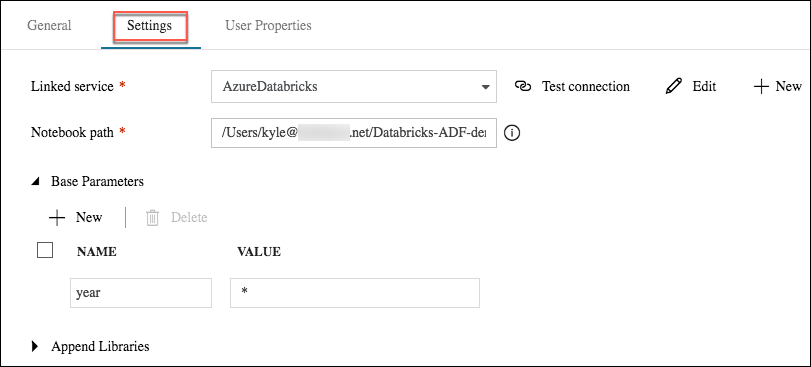
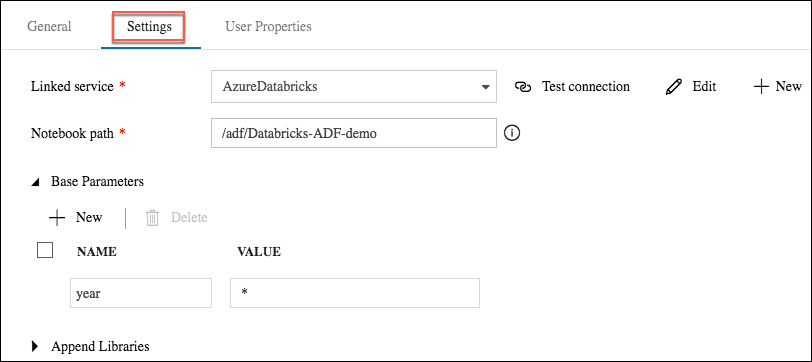
Updated ADF pipeline to reference a shared folder at the workspace level

diff --git a/automation-orchestration/azure-data-factory.md b/automation-orchestration/azure-data-factory.md
@@ -33,7 +33,7 @@ Below is a sample JSON definition of a Databricks Notebook activity:
             "type": "LinkedServiceReference"
         },
         "typeProperties": {
-            "notebookPath": "/Users/user@example.com/Databricks-ADF-demo",
+            "notebookPath": "/adf/Databricks-ADF-demo",
             "baseParameters": {
                 "inputpath": "input/folder1/",
                 "outputpath": "output/"
@@ -114,13 +114,21 @@ print (x)
 
 ## Create a new notebook
 
-The first thing you need to do is create the notebook that will be executed by your ADF Databricks Notebook activity.
+The first thing you need to do is create the notebook that will be executed by your ADF Databricks Notebook activity. To follow best practices for a shared notebook, you will create a folder at the workspace level, named `adf`, and create the notebook within that.
 
-1. In the [Azure portal](https://portal.azure.com), navigate to your Databricks workspace, and on the Azure Databricks page, select **Notebook** under **New**.
+1. In the [Azure portal](https://portal.azure.com), navigate to your Databricks workspace, select **Workspace** from the left-hand menu, then select the Workspace menu down arrow, followed by **Create**, and then select **Folder**.
 
-    ![On the Azure Databricks workspace page, Notebook is highlighted under New.](media/azure-databricks-new-notebook.png "Azure Databricks Workspace")
+    ![The Azure Databricks workspace menu is expanded and Create > Folder is highlighted in the menu.](media/azure-databricks-workspace-create-folder.png "Azure Databricks workspace create folder")
 
-2. Enter a Name, such as Databricks-ADF-demo, on the **Create Notebook** dialog, ensure the language is set to **Python**, select your cluster from the drop down, and then select **Create**.
+2. In the **New Folder Name** dialog, enter **adf** and select **Create**.
+
+    ![The Azure Databricks New Folder Name dialog is displayed, and "adf" is entered into the name field.](media/azure-databricks-workspace-new-folder-name.png "New folder name dialog")
+
+3. Now, select the menu drop down next to the newly created **adf** folder, and then select **Create > Notebook**.
+
+    ![The adf menu is expanded under the Azure Databricks workspace and Create > Notebook is highlighted in the menu.](media/azure-databricks-workspace-create-notebook.png "Azure Databricks workspace create notebook")
+
+4. Enter a Name, such as Databricks-ADF-demo, on the **Create Notebook** dialog, ensure the language is set to **Python**, select your cluster from the drop down, and then select **Create**.
 
     ![Screenshot of the Azure Databricks Create Notebook dialog. A name is entered, and the language is set to Python.](media/azure-databricks-create-notebook.png "Azure Databricks Create Notebook")
 
@@ -347,7 +355,7 @@ With your notebook now in place, you are ready to create the ADF pipeline that w
 
     - **Linked service**: Select the _AzureDatabricks_ linked service you created previously
 
-    - **Notebook path**: Enter the path to the notebook you created above. This will typically be in the format _/Users/[your@email.com]/[Notebook-name]_. For example, if you named your notebook Databricks-ADF-demo, and your Azure email account is user@microsoft.com, the path would be **/Users/user@microsoft.com/Databricks-ADF-demo**.
+    - **Notebook path**: Enter the path to the notebook you created above. Using a shared folder at the workspace level, this will typically be in the format _/folder-name/[Notebook-name]_. For example, if you named your notebook Databricks-ADF-demo, and your shared folder is named adf, the path would be **/adf/Databricks-ADF-demo**.
 
     - Expand **Base Parameters**, select **+ New**, enter **year** for the Name, and enter a four-digit year between 1987 and 2008, or enter "*" to include all years of flight data.
 
@@ -382,7 +390,7 @@ With your notebook now in place, you are ready to create the ADF pipeline that w
                         "secureOutput": false
                     },
                     "typeProperties": {
-                        "notebookPath": "/Users/user@microsoft.net/Databricks-ADF-demo",
+                        "notebookPath": "/adf/Databricks-ADF-demo",
                         "baseParameters": {
                             "year": "*"
                         }
